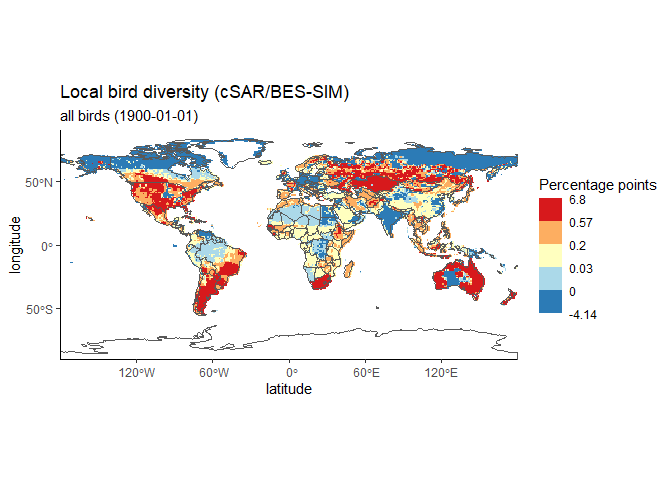
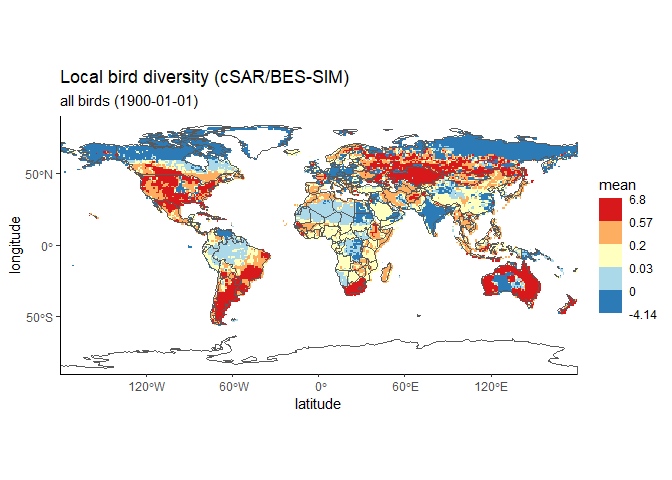
rebuild readme: cran badge

diff --git a/README.md b/README.md
@@ -4,6 +4,9 @@
 # ebvcube package
 
 <!-- badges: start -->
+
+[![CRAN
+status](https://www.r-pkg.org/badges/version/ebvcube)](https://CRAN.R-project.org/package=ebvcube)
 <!-- badges: end -->
 
 This package can be used to easily access the data of the EBV netCDFs
@@ -136,7 +139,7 @@ fyi: the result also holds the general file properties from above.
 prop.dc <- ebv_properties(file, datacubes[1,1])
 prop.dc@ebv_cube
 #> $units
-#> [1] "Percentage points"
+#> [1] "mean"
 #> 
 #> $coverage_content_type
 #> [1] "modelResult"
@@ -352,7 +355,7 @@ citation('ebvcube')
 #>   Quoss L, Fernandez N, Langer C, Valdez J, Pereira H (2021). _ebvcube:
 #>   Working with netCDF for Essential Biodiversity Variables_. German
 #>   Centre for Integrative Biodiversity Research (iDiv)
-#>   Halle-Jena-Leipzig, Germany. R package version 0.1.1,
+#>   Halle-Jena-Leipzig, Germany. R package version 0.1.2,
 #>   <https://github.com/LuiseQuoss/ebvcube>.
 #> 
 #> Ein BibTeX-Eintrag für LaTeX-Benutzer ist
@@ -361,7 +364,7 @@ citation('ebvcube')
 #>     title = {ebvcube: Working with netCDF for Essential Biodiversity Variables},
 #>     author = {Luise Quoss and Nestor Fernandez and Christian Langer and Jose Valdez and Henrique Miguel Pereira},
 #>     year = {2021},
-#>     note = {R package version 0.1.1},
+#>     note = {R package version 0.1.2},
 #>     organization = {German Centre for Integrative Biodiversity Research (iDiv) Halle-Jena-Leipzig},
 #>     address = {Germany},
 #>     url = {https://github.com/LuiseQuoss/ebvcube},
